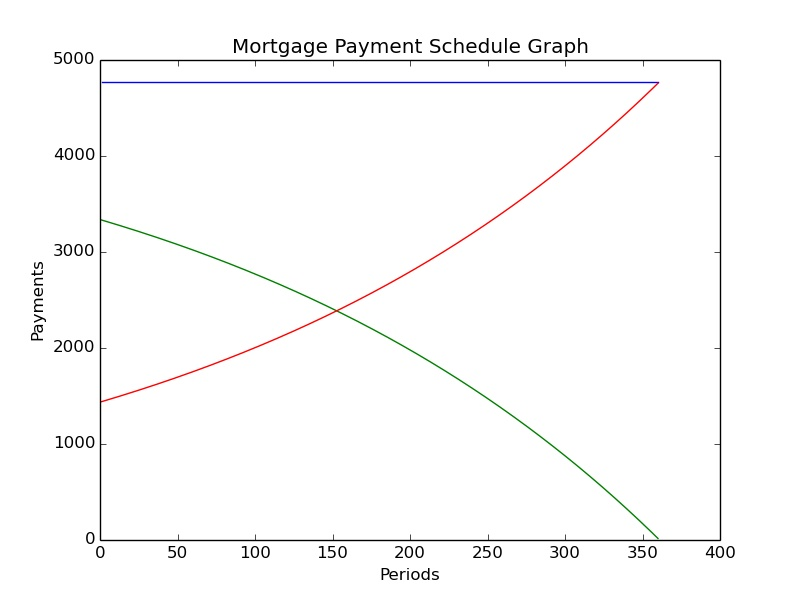
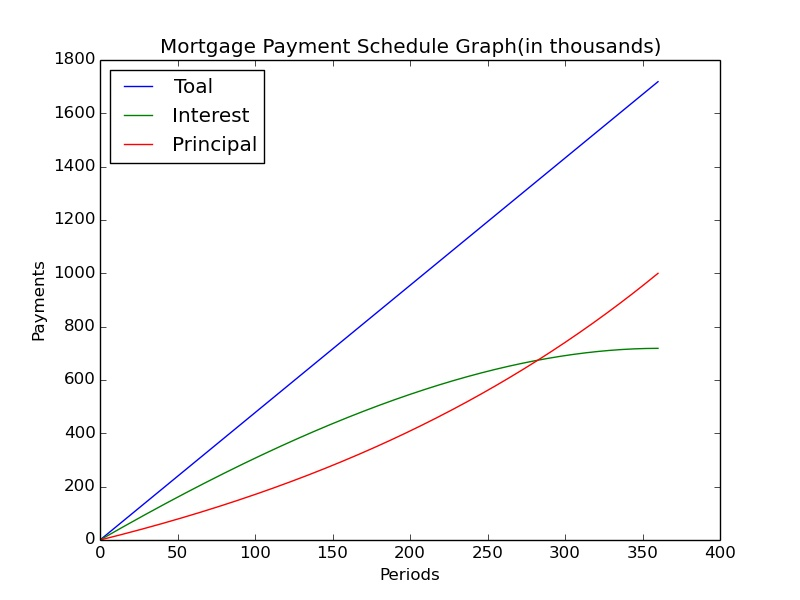
Added cumulative mortgage payment schedule

diff --git a/exercises/mortgage_calculator.py b/exercises/mortgage_calculator.py
@@ -1,6 +1,7 @@
 from model import *
 from formula import Formula
 
+
 class Calculator:
     def __init__(self):
         pass
@@ -11,13 +12,41 @@ class Calculator:
         while mortgage.month_left >= 1:
             period = mortgage.term * 12 - mortgage.month_left + 1
             interest_pmt = Formula.calculate_interest_pmt(balance, mortgage.rate)
-            principal_pmt = mortgage.pmt - interest_pmt
+            if mortgage.month_left == 1:
+                principal_pmt = balance
+            else: 
+                principal_pmt = mortgage.pmt - interest_pmt
             balance -= principal_pmt
             i = [period, round(mortgage.pmt, 2), round(interest_pmt, 2), round(principal_pmt, 2), round(balance, 2)]
             schedule.append(i)
             mortgage.month_left -= 1
         return schedule
         
+    def cumulative_schedule(self, mortgage):
+        schedule = []
+        balance = mortgage.principal
+        cum_tot_payment = 0
+        cum_interest_pmt = 0
+        cum_principal_pmt = 0
+        while mortgage.month_left >= 1:
+            period = mortgage.term * 12 - mortgage.month_left + 1
+            cum_tot_payment += mortgage.pmt 
+            cum_interest_pmt += Formula.calculate_interest_pmt(balance, mortgage.rate)
+            if mortgage.month_left == 1:
+                principal_pmt = balance
+            else: 
+                principal_pmt = mortgage.pmt - Formula.calculate_interest_pmt(balance,mortgage.rate)
+            cum_principal_pmt += principal_pmt
+            balance -= principal_pmt
+            i = [period, round(cum_tot_payment, 2), round(cum_interest_pmt, 2), round(cum_principal_pmt), round(balance, 2)]
+            schedule.append(i)
+            mortgage.month_left -= 1
+        return schedule
+        
 if __name__ == "__main__":
     schedule = Calculator()
-    print (schedule.pmt_schedule(Mortgage(1000000, 0.05, 30, 30)))
+    view = schedule.pmt_schedule(Mortgage(1000000, 0.05, 10, 25))
+    for i in view:
+        print (i)
+    print (schedule.cumulative_schedule(Mortgage(1000000, 0.05, 10, 25)))
+    

diff --git a/exercises/view.py b/exercises/view.py
@@ -10,15 +10,16 @@ class ScheduleView:
 class GraphView:
     def render(self, schedule):
         x_axis = [i[0] for i in schedule]
-        mortgage_pmt = [i[1] for i in schedule]
-        interest_pmt = [i[2] for i in schedule]
-        principal_pmt = [i[3] for i in schedule]
-        plt.plot(x_axis, mortgage_pmt, label = 'Mortgage Payment')
-        plt.plot(x_axis, interest_pmt, label = 'Interest Payment')
-        plt.plot(x_axis, principal_pmt, label = 'Principal Payment')
+        mortgage_pmt = [i[1] / 1000 for i in schedule]
+        interest_pmt = [i[2] / 1000 for i in schedule]
+        principal_pmt = [i[3] / 1000 for i in schedule]
+        plt.plot(x_axis, mortgage_pmt, label = 'Toal')
+        plt.plot(x_axis, interest_pmt, label = 'Interest')
+        plt.plot(x_axis, principal_pmt, label = 'Principal')
+        plt.legend(loc = 0)
         plt.xlabel('Periods')
         plt.ylabel('Payments')
-        plt.title('Mortgage Payment Schedule Graph')
+        plt.title('Mortgage Payment Schedule Graph(in thousands)')
         plt.savefig('schedule.jpg')
 
 if __name__ == "__main__":

diff --git a/exercises/controller.py b/exercises/controller.py
@@ -10,12 +10,17 @@ class Controller:
         self.calculator = Calculator()
         self.view = {"View Graph": GraphView(), "View Schedule": ScheduleView()}
 
-    def calculate_mortgage_schedule(self, mortgage):
+    def mortgage_schedule(self, mortgage):
         # Run the calculation
         schedule = self.calculator.pmt_schedule(mortgage)
         self.view["View Schedule"].render(schedule)
         self.view["View Graph"].render(schedule)
-
+    
+    def cumulative_pmt_schedule(self, mortgage):
+        schedule = self.calculator.cumulative_schedule(mortgage)
+        self.view["View Schedule"].render(schedule)
+        self.view["View Graph"].render(schedule)
         
 controller = Controller()
-controller.calculate_mortgage_schedule(Mortgage(1000000, 0.04, 30, 30))
+# controller.mortgage_schedule(Mortgage(1000000, 0.04, 30, 30))
+controller.cumulative_pmt_schedule(Mortgage(1000000, 0.04, 30, 30))
